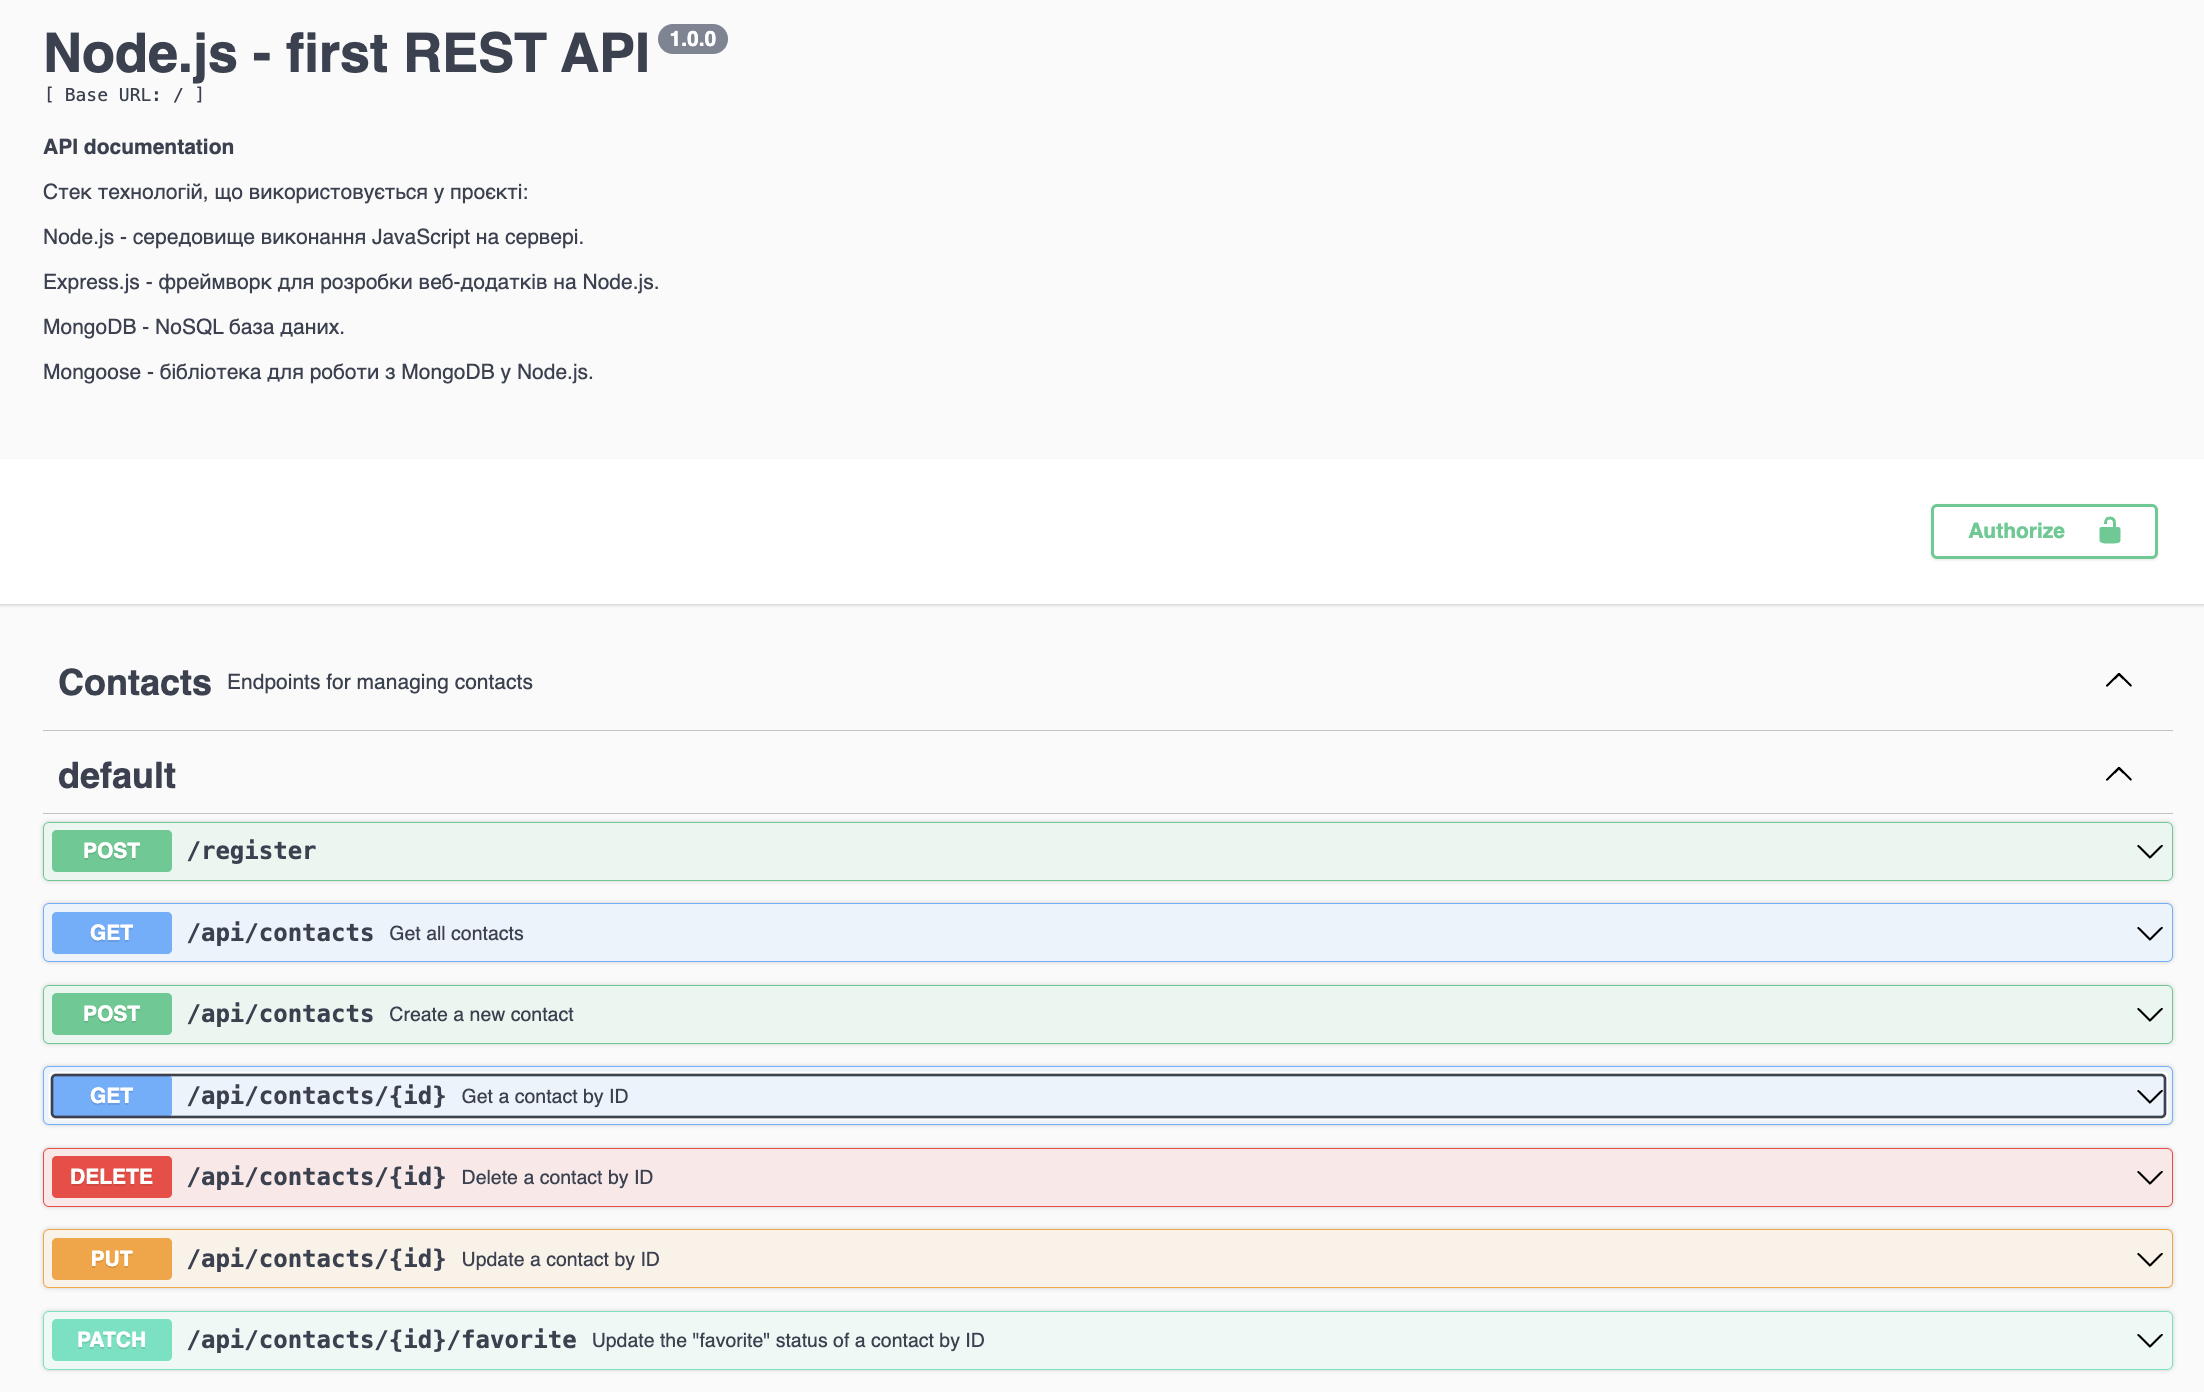
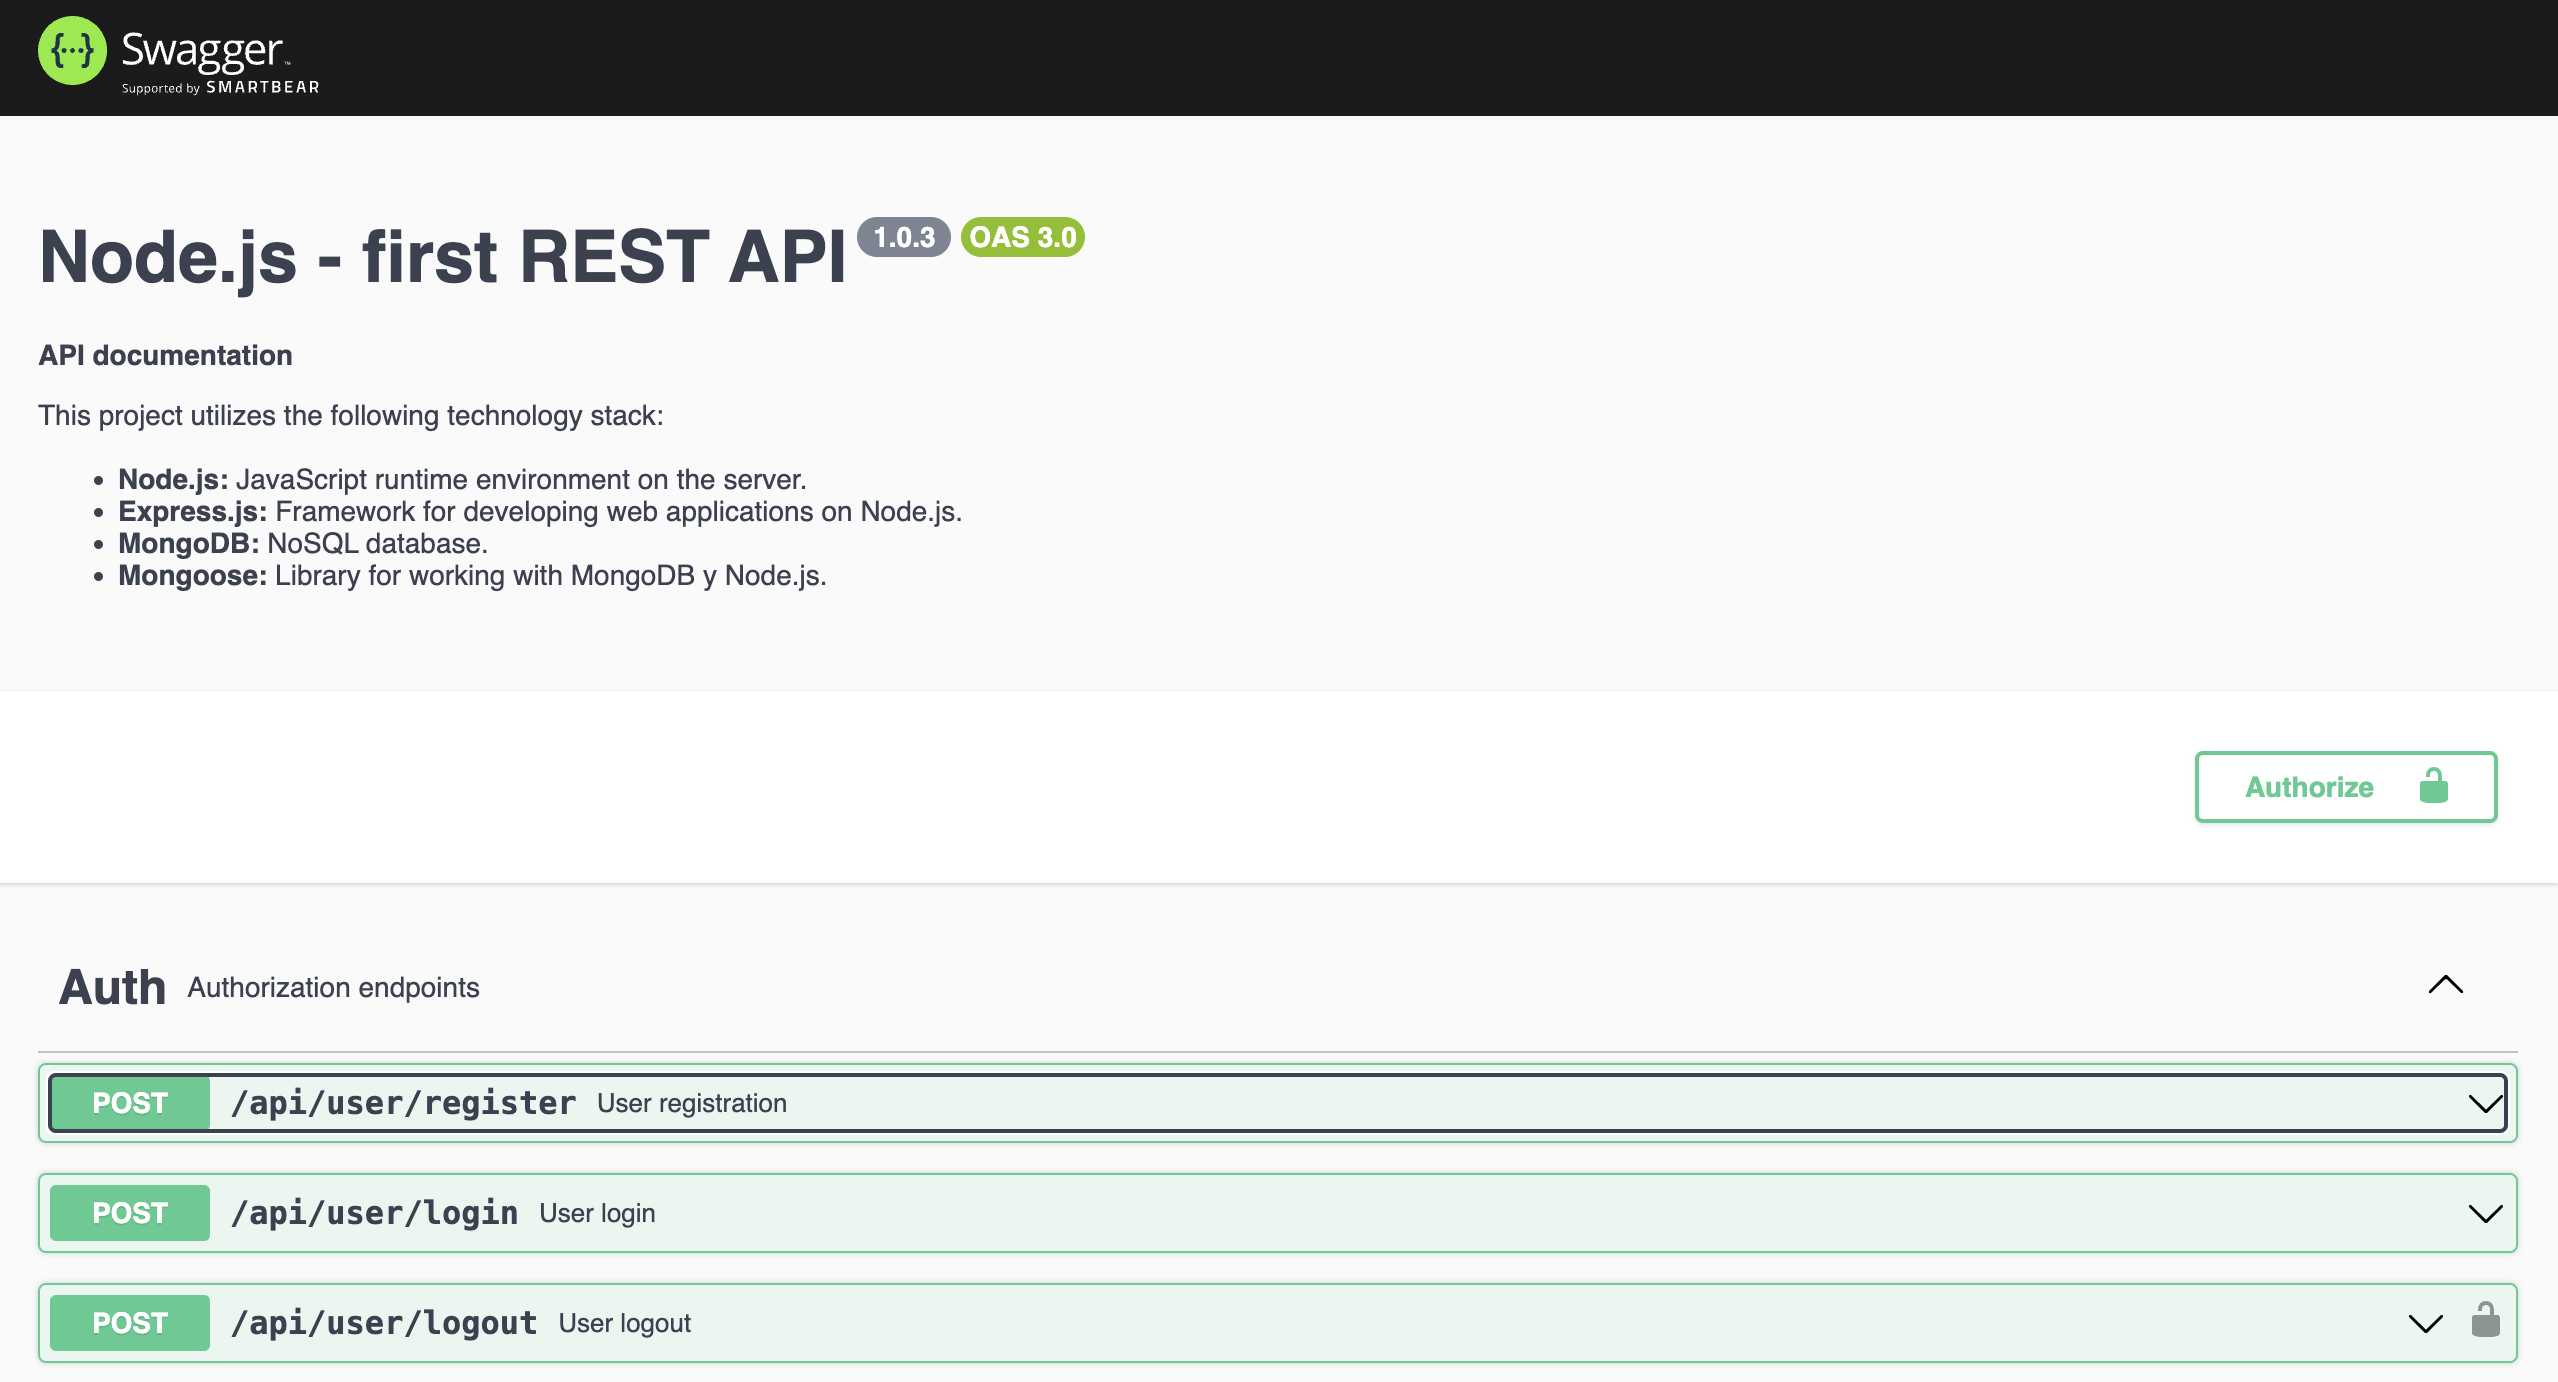
docs : edit README.md

diff --git a/readme.md b/readme.md
@@ -1,41 +1,17 @@
+# Розділи опису
+
+- [Postman](#Postman)
+  - [Контакти](#Контакти)
+  - [Аутентифікація](#Аутентифікація)
+- [Swagger](#Swagger)
+
 # Postman
 
 Щоб перевірити роботу REST API пиши так:
 
-## Базові ендпоінти
-
-### GET http://localhost:3000/api/contacts
-
-`Відповідь` &mdash; повертається масив всіх контактів в json-форматі зі статусом 200
-
-### GET http://localhost:3000/api/contacts/:id
-
-`Відповідь` &mdash; якщо такий id є, повертається об'єкт контакту в json-форматі зі статусом 200;
-якщо такого id немає, повертається json з ключем "message": "not found" і статусом 404
-
-### POST http://localhost:3000/api/contacts
-
-Отримує body в форматі {name, email, phone} (усі поля обов'язкові та мають бути стрінгами) <br>
-`Відповідь` &mdash; якщо в body немає якихось обов'язкових полів або вони не строки, повертається json з ключем {"message": "missing required field(s) / non-string field(s)"} і статусом 400; якщо з body все добре, додає унікальний ідентифікатор в об'єкт контакту i повертається об'єкт з доданим id {id, name, email, phone} і статусом 201
-
-### DELETE http://localhost:3000/api/contacts/:id
-
-`Відповідь` &mdash; якщо такий id є, повертається json формату {"message": "contact deleted"} і статусом 200;
-якщо такого id немає, повертається json з ключем "message": "not found" і статусом 404
-
-### PUT http://localhost:3000/api/contacts/:id
-
-Отримує body в json-форматі c оновленням будь-яких полів name, email и phone (валідадія присутня як у додавані контакту)<br>
-`Відповідь` &mdash; якщо з body всe добре - повертається оновлений об'єкт контакту зі статусом 200, інакше повертається json з ключем "message": "not found" і статусом 404
-
-### PATCH http://localhost:3000/api/contacts/:id/favorite
-
-Отримує body в json-форматі з оновленням поля favorite (має бути значення boolean)<br>
-`Відповідь` &mdash; якщо в body немає якихось обов'язкових полів або вони не строки, повертається json з ключем {"message":"missing field favorite"} і статусом 400; якщо з body всe добре - повертається оновлений об'єкт контакту зі статусом 200, інакше повертається json з ключем "message": "not found" і статусом 404
-
 ## Аутентифікація
 
-### POST http://localhost:3000/users/register
+### POST http://localhost:3000/api/user/register
 
 Отримує body в форматі {email, password, subscription} (перші два поля обов'язкові, всі поля мають бути стрінгами, валідація присутня) <br>
 `Відповідь` &mdash; при помилці валідації повертається "Помилка від Joi або іншої бібліотеки валідації" зі статусом 400; якщо пошта вже використовується кимось іншим повертається ResponseBody: {"message": "Email in use"} зі статусом 409; якщо з body все добре повертається об'єкт наступного виду {
@@ -49,7 +25,7 @@ enum: ["starter", "pro", "business"],
 default: "starter"
 })
 
-### POST http://localhost:3000/users/login
+### POST http://localhost:3000/api/user/login
 
 Отримує body в форматі {email, password} (всі поля обов'язкові та мають бути стрінгами, валідація присутня) <br>
 `Відповідь` &mdash; при помилці валідації повертається "Помилка від Joi або іншої бібліотеки валідації" зі статусом 400; якщо пароль або email невірний повертається ResponseBody: {"message": "Email or password is wrong"} зі статусом 401; якщо з body все добре шукається пароль для користувача в БД, якщо пароль знаходиться створюється токен, зберігається в поточному полі юзера і повертається об'єкт наступного виду ResponseBody: {
@@ -60,12 +36,12 @@ default: "starter"
 }
 } і статусом 200
 
-### POST http://localhost:3000/users/logout
+### POST http://localhost:3000/api/user/logout
 
 Отримує пусте body з обовʼязковим заголовком Authorization: "Bearer {{token}}" <br>
 `Відповідь` &mdash; якщо користувача у моделі "user" за \_id не існує повертається ResponseBody: {"message": "Not authorized"} і статус 401; в іншому випадку, видаляється токен у поточного юзера і повертається статус 204
 
-### GET http://localhost:3000/users/current
+### GET http://localhost:3000/api/user/current
 
 Запит відправляється з обовʼязковим заголовком Authorization: "Bearer {{token}}" <br>
 `Відповідь` &mdash; якщо користувача не існує повертається ResponseBody: {"message": "Not authorized"} і статус 401; в іншому випадку повертається ResponseBody: {
@@ -80,5 +56,41 @@ default: "starter"
 - `npm run lint` &mdash; запустити виконання перевірки коду з eslint, необхідно виконувати перед кожним PR та виправляти всі помилки лінтера
 - `npm run lint:fix` &mdash; та ж перевірка лінтера, але з автоматичними виправленнями простих помилок
 
-# Swagger documentation
+
+## Контакти
+
+### GET http://localhost:3000/api/contact
+
+`Відповідь` &mdash; повертається масив всіх контактів в json-форматі зі статусом 200
+
+### GET http://localhost:3000/api/contact/:id
+
+`Відповідь` &mdash; якщо такий id є, повертається об'єкт контакту в json-форматі зі статусом 200;
+якщо такого id немає, повертається json з ключем "message": "not found" і статусом 404
+
+### POST http://localhost:3000/api/contact
+
+Отримує body в форматі {name, email, phone} (усі поля обов'язкові та мають бути стрінгами) <br>
+`Відповідь` &mdash; якщо в body немає якихось обов'язкових полів або вони не строки, повертається json з ключем {"message": "missing required field(s) / non-string field(s)"} і статусом 400; якщо з body все добре, додає унікальний ідентифікатор в об'єкт контакту i повертається об'єкт з доданим id {id, name, email, phone} і статусом 201
+
+### DELETE http://localhost:3000/api/contact/:id
+
+`Відповідь` &mdash; якщо такий id є, повертається json формату {"message": "contact deleted"} і статусом 200;
+якщо такого id немає, повертається json з ключем "message": "not found" і статусом 404
+
+### PUT http://localhost:3000/api/contact/:id
+
+Отримує body в json-форматі c оновленням будь-яких полів name, email и phone (валідадія присутня як у додавані контакту)<br>
+`Відповідь` &mdash; якщо з body всe добре - повертається оновлений об'єкт контакту зі статусом 200, інакше повертається json з ключем "message": "not found" і статусом 404
+
+### PATCH http://localhost:3000/api/contact/:id/favorite
+
+Отримує body в json-форматі з оновленням поля favorite (має бути значення boolean)<br>
+`Відповідь` &mdash; якщо в body немає якихось обов'язкових полів або вони не строки, повертається json з ключем {"message":"missing field favorite"} і статусом 400; якщо з body всe добре - повертається оновлений об'єкт контакту зі статусом 200, інакше повертається json з ключем "message": "not found" і статусом 404
+
+
+# Swagger
 ![screenshot](./public/screenshots/1.png)
+![screenshot](./public/screenshots/2.png)
+![screenshot](./public/screenshots/3.png)
+![screenshot](./public/screenshots/4.png)
